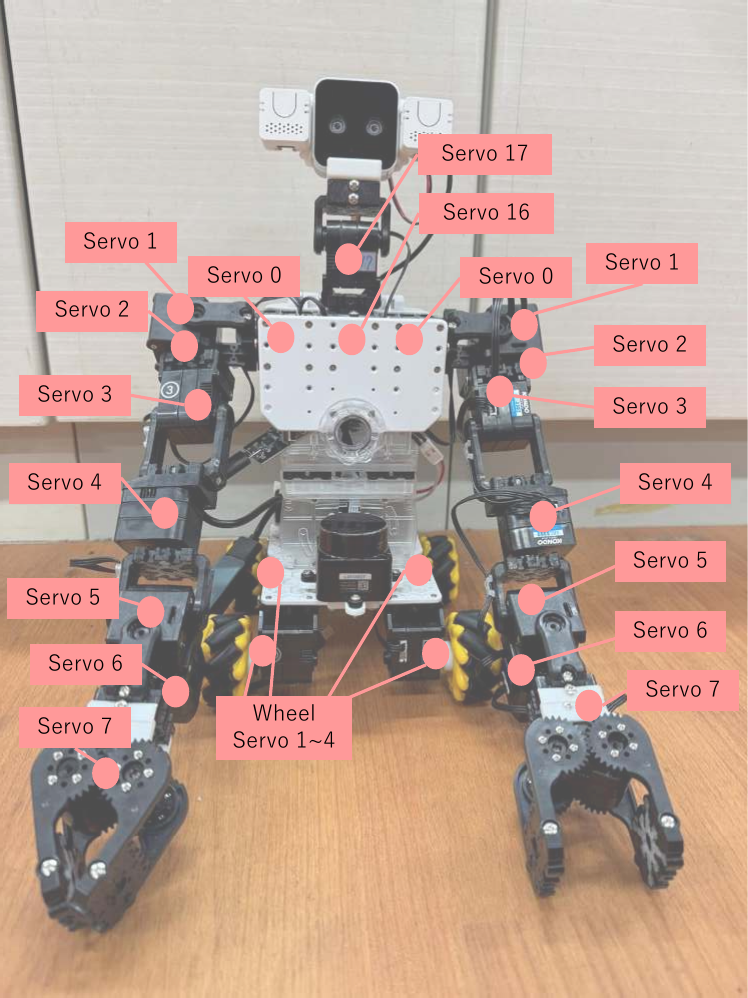
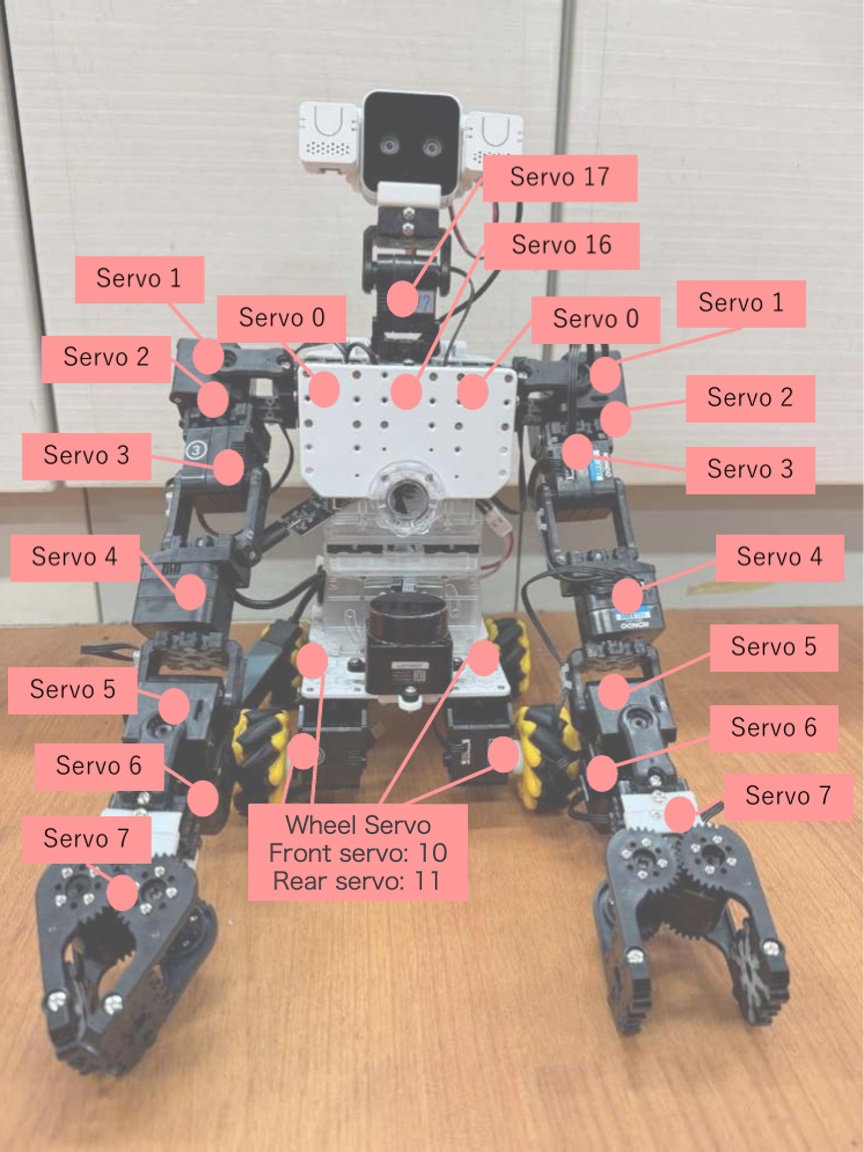
[docs] Fixed h1, h2, h3, h4

diff --git a/docs/robot-programming-2-2025.md b/docs/robot-programming-2-2025.md
@@ -21,10 +21,7 @@
 それらのロボット毎に異なるハードウェアに依存する部分をロボットインターフェースよりも下位にまとめることでロボット毎の違いを吸収している．
 これにより同一の上位プログラムから異なるロボットを行動を制御できるようになっている．
 
-さらに付録には順・逆運動学を応用することで
-`Gazebo`シミュレーション上のヒューマノイドロボット`JAXON`に対して
-人間とヒューマノイドロボットをリアルタイムに同期させるアバターのサンプルも用意してある．
-それらのサンプルでは演習用PCの搭載カメラを利用した簡易的なモーションキャプチャの構成を経て`ROS`や2D画像処理技術，アバター技術の基礎に触れることができるので，余裕のある人は必須課題が終わった後や演習後に試してみて欲しい．
+さらに付録には順・逆運動学を応用することで`Gazebo`シミュレーション上のヒューマノイドロボット`JAXON`を動かせるものもあるので余裕のある人は必須課題が終わった後や演習後に試してみて欲しい．
 
 本日の目標は以下である．
 
@@ -67,22 +64,22 @@
 発展課題に関しては必須ではないが，すべてをこなすとかなりのロボットレベルが上がるため，これからロボットをやっていきたいというロボット経験者も未経験者もぜひチャレンジしてほしい．
 ```
 
-## 環境構築とソフトウェア更新
+### 環境構築とソフトウェア更新
 
 演習を開始する前に，必ず[環境構築](environment-setup.md)のページを参照して，最新バージョンのソフトウェアを取得すること．
 
-## ROSコマンドなどのおさらい
+### ROSコマンドなどのおさらい
 
-### ROS 1コマンド
+#### ROS 1コマンド
 
 ```{code-block} console
 $ rostopic list
 # topic一覧がでる
-$ rostopic hz /atom_s3_button_state
+$ rostopic hz /imu
 # 周期がわかる
-$ rostopic type /atom_s3_button_state
+$ rostopic type /imu
 # topicの型が何かわかる
-$ rostopic echo /atom_s3_button_state
+$ rostopic echo /imu
 # topicの内容を表示する
 $ rosnode list
 # rosnode一覧
@@ -92,16 +89,16 @@ $ rqt_graph
 # ノード一覧がグラフとして表示される
 ```
 
-### ROS 2コマンド
+#### ROS 2コマンド
 
 ```{code-block} console
 $ ros2 topic list
 # topic一覧がでる
-$ ros2 topic hz /atom_s3_button_state
+$ ros2 topic hz /imu
 # 周期がわかる
-$ ros2 topic info /atom_s3_button_state
+$ ros2 topic info /imu
 # topicの型とpublisher/subscriber数が分かる
-$ ros2 topic echo /atom_s3_button_state
+$ ros2 topic echo /imu
 # topicの内容を表示する
 $ ros2 node list
 # rosnode一覧
@@ -113,7 +110,7 @@ $ rqt_graph
 
 詳細なコマンドの使い方については[ROS 1コマンド](tips/ros1-commands.md)と[ROS 2コマンド](tips/ros2-commands.md)のTipsページを参照すること．
 
-# `EusLisp`ロボットインターフェース`*ri*`からのセンサ値取得・台車駆動（シミュレーションにも対応）
+## `EusLisp`ロボットインターフェース`*ri*`からのセンサ値取得・台車駆動（シミュレーションにも対応）
 
 `EusLisp`のロボットインターフェースで実際のロボットのセンサ値取得や台車駆動が行えることを確認する．
 
@@ -280,11 +277,11 @@ $ roscd jedy_bringup/exercise/
 ボタンを押されると音をならし前進しもう一回ボタンを押されるとストップする．
 ```
 
-# 双腕移動台車ロボットのハードウェアとセットアップ
+## 双腕移動台車ロボットのハードウェアとセットアップ
 
 本章では双腕移動台車ロボットの全身動作を行っていく．
 
-## ハードウェア構成
+### ハードウェア構成
 
 双腕移動台車ロボットの片腕は8自由度あり
 7自由度がアーム，1自由度がグリッパハンドである．
@@ -305,9 +302,9 @@ Jedyのサーボ順番割付
 `Radxa`の充電基板にとりついている`ZH3`線のコネクタは`/dev/ttyAML1`というデバイスとして認識されている．
 動作電圧は6-12Vであり，2セルのリポバッテリーから8Vを作り出すことで駆動している．
 
-## セットアップ
+### セットアップ
 
-### 接続と電源投入
+#### 接続と電源投入
 
 背面のバックパック部分の白い制御基板(`KondoH7`基板)から出ている黒い3線のケーブルが`Radxa zero`の上面にある充電管理基板の3線とつながっていることを確認しよう(，を参照).
 背面の物理ボタンをONにすると`KondoH7`基板のLEDが青く点滅し，ブザー音が鳴ることを確認しよう．
@@ -320,7 +317,7 @@ Jedyの背面パネル
 USB充電端子，サーボ基板へ8Vを出力する黄色いコネクタの`XT30`端子，`UART`通信のための黒い`ZH3`線ケーブル，バッテリー入力をする黄色い`XT30`端子がある．また`Atom S3`にはロボットのIPアドレスやバッテリー残量が表示されている．
 ```
 
-### IDの確認
+#### IDの確認
 
 `Jedy`の電源を入れ，ロボットPCに`ssh`でログインして，
 以下のコマンドを実行し22個のサーボモータすべてが
@@ -392,10 +389,10 @@ Servo ID 13 (larm_joint6) not found
 Servo ID 15 (larm_gripper_joint) not found
 ```
 
-実行してこのように“not found”と出ているサーボはケーブルが抜けていないかどうかを確認すべきである．
+実行してこのように"not found"と出ているサーボはケーブルが抜けていないかどうかを確認すべきである．
 <span style="color:red">**ロボットにおいて電源周りやケーブルの接触不良は物理的に動くものであるため起こりうる．大事なことは問題が起きたときにどのように対処できるかというデバッグ能力であり，今のうちから技術を身に着けていってほしい．**</span>
 
-# 演習への取り組み方と移動台車ロボットの共有方法
+## 演習への取り組み方と移動台車ロボットの共有方法
 
 ロボットPCをROSのMasterとして班員のPCを複数台使うことでそれぞれ個別に指令値を送ったりセンサ値を表示したりしながらロボットを動かすことができる．
 しかしロボットの動作自体は一人が送っている間は他の人が送ると動作が上書きされてしまうため，みんなで話ながらロボットを動かしていってほしい．
@@ -409,11 +406,11 @@ Servo ID 15 (larm_gripper_joint) not found
 
 複数台のPC接続設定は{doc}`robot-programming-1-2025`に従う．
 
-# アームロボットのソフトウェア（シミュレーションにも対応）
+## アームロボットのソフトウェア（シミュレーションにも対応）
 
 本小節ではアームロボットを動かすためのソフトウェアについて説明する．
 
-## ロボットアームの起動
+### ロボットアームの起動
 
 **本章のコマンドはアームを動かすのでアームが何かにぶつからないように周囲に注意しながら演習を行うこと．**
 
@@ -432,7 +429,7 @@ $ ros2 launch jedy_bringup jedy_gazebo.launch.py
 
 **実機を動かす場合はのセットアップが必要になる．**
 
-## PythonプログラマのためのEusLisp入門
+### PythonプログラマのためのEusLisp入門
 
 本演習では，ロボット制御にEusLispという言語を使用する．多くの学生にとってPythonの方が馴染みがあると思われるため，ここではPythonとの対比を通じてEusLispの書き方を理解できるようにする．
 
@@ -444,7 +441,7 @@ $ ros2 launch jedy_bringup jedy_gazebo.launch.py
 PythonとEusLispの構文対比
 :::
 
-### 基本的な対応関係
+#### 基本的な対応関係
 
 | 概念 | Python | EusLisp | 説明 |
 |------|--------|---------|------|
@@ -455,7 +452,7 @@ PythonとEusLispの構文対比
 | **リスト/配列** | `[0, 0, 0, 0, 0, 0]` | `#f(0 0 0 0 0 0)` | `#f`は浮動小数点数ベクトル |
 | **入れ子の関数** | `jedy.inverse_kinematics(make_coords(pos=[370, 0, 150]))` | `(send *jedy* :inverse-kinematics (make-coords :pos #f(370 0 150)))` | 内側から外側へ評価される |
 
-### 重要なポイント
+#### 重要なポイント
 
 1. **前置記法（Prefix Notation）**
    - Python: `a + b` （演算子が中央）
@@ -476,7 +473,7 @@ PythonとEusLispの構文対比
 
 詳細な説明については，[PythonプログラマのためのEusLisp](tips/python-to-euslisp.md)を参照のこと．
 
-## `EusLisp`のロボットインターフェース`*ri*`からのアームロボットの制御
+### `EusLisp`のロボットインターフェース`*ri*`からのアームロボットの制御
 
 以下のコマンドにより
 `EusLisp`のロボットインターフェースからアームロボットを動かすことができる．
@@ -513,7 +510,7 @@ irteusgl$ (send *ri* :angle-vector (send *jedy* :angle-vector) 4000)
 1.のロボットモデルの姿勢を決定する部分は，
 のように関節角度を直接指定したり[EusLispの逆運動学メソッド](tips/euslisp-ik.md)のように逆運動学を用いてもよい．
 
-## `KRS`サーボのON/OFF
+#### `KRS`サーボのON/OFF
 
 以下のコマンドでサーボのON/OFFが切り替えられる．
 
@@ -570,7 +567,7 @@ irteusgl$ send-all (send *jedy* :joint-list) :name
 興味のある人は， <https://kondo-robot.com/product/03146>
 などの製品情報ページを参照してみてほしい．
 
-## 関節角度の直接指令による動作生成
+#### 関節角度の直接指令による動作生成
 
 <div class="screen">
 
@@ -605,37 +602,33 @@ irteusgl$ (send (send *jedy* :head_joint1) :joint-angle -90)
 
 繰り返し処理を追加すると以下のようにエンターキーを押すまでロボットがうなずき続ける．
 
-<div class="screen">
-
-``` lisp
+```{code-block} lisp
 ;; 頭部のみ個別にservo-on
-      (send *ri* :servo-on :names (list "head_joint0" "head_joint1"))
+(send *ri* :servo-on :names (list "head_joint0" "head_joint1"))
 
-      ;; 頭部の関節名を指定して角度を変える
-      (send *jedy* :head_joint0 :joint-angle 20)
-      (send *jedy* :head_joint1 :joint-angle 50)
+;; 頭部の関節名を指定して角度を変える
+(send *jedy* :head_joint0 :joint-angle 20)
+(send *jedy* :head_joint1 :joint-angle 50)
 
-      (send *irtviewer* :draw-objects)
+(send *irtviewer* :draw-objects)
 
-      ;; 関節指令を実機に反映させる (3000msかけておくる)
-      (send *ri* :angle-vector (send *jedy* :angle-vector) 3000)
+;; 関節指令を実機に反映させる (3000msかけておくる)
+(send *ri* :angle-vector (send *jedy* :angle-vector) 3000)
 
-      ;; キーが押されるまでうなずき続ける
-      (do-until-key
-        (send *jedy* :head_joint0 :joint-angle 0)
-        (send *jedy* :head_joint1 :joint-angle 90)
-        (send *ri* :angle-vector (send *jedy* :angle-vector) 1000)
-        (send *ri* :wait-interpolation)  ;; 補間がおわるのを待つ
-        (send *jedy* :head_joint0 :joint-angle 0)
-        (send *jedy* :head_joint1 :joint-angle 0)
-        (send *ri* :angle-vector (send *jedy* :angle-vector) 1000)
-        (send *ri* :wait-interpolation)  ;; 補間がおわるのを待つ
-        )
+;; キーが押されるまでうなずき続ける
+(do-until-key
+  (send *jedy* :head_joint0 :joint-angle 0)
+  (send *jedy* :head_joint1 :joint-angle 90)
+  (send *ri* :angle-vector (send *jedy* :angle-vector) 1000)
+  (send *ri* :wait-interpolation)  ;; 補間がおわるのを待つ
+  (send *jedy* :head_joint0 :joint-angle 0)
+  (send *jedy* :head_joint1 :joint-angle 0)
+  (send *ri* :angle-vector (send *jedy* :angle-vector) 1000)
+  (send *ri* :wait-interpolation)  ;; 補間がおわるのを待つ
+)
 ```
 
-</div>
-
-## 逆運動学による動作生成
+#### 逆運動学による動作生成
 
 手先を目標物に伸ばすというように，手先作業空間での目標に基づいてロボットの運動を生成するには，逆運動学(IK)を用いる．
 逆運動学は端的には，「目標位置まで手先を動かすための関節角度はいくらか？」を求める演算である．
@@ -687,7 +680,7 @@ irteusgl$ (send *jedy* :rarm :inverse-kinematics
 
 逆運動学メソッドの詳細な使い方は，を参照のこと．
 
-### <span style="color:green">チェックポイント: アームロボットの制御</span>
+#### <span style="color:green">チェックポイント: アームロボットの制御</span>
 
 ```{exercise} アームロボットの制御
 :label: ex_arm_control
@@ -702,9 +695,9 @@ irteusgl$ (send *jedy* :rarm :inverse-kinematics
 
 なお，実際に`Jedy`の定義されてるファイルは，[jedy/jedyeus/euslisp/jedy.l](https://github.com/jsk-enshu/robot-programming/tree/master/jedy/jedyeus/euslisp/jedy.l)にある．
 
-# 本日の発展課題
+## 本日の発展課題
 
-## 課題1(発展)
+### 課題1(発展)
 
 {doc}`robot-programming-1-2025`でカメラ画像を使って認識を行った．物体の姿勢を推定し，その推定結果からロボット実機の姿勢を決定することは重要である．
 ここでは，カメラのRGB画像からマーカーボックスの位置を推定し，ロボットの逆運動学計算を行いピックアップする方法を紹介するので，希望者はTAか先生から`AprilTag`Boxを貸りて，ぜひ挑戦してみてほしい．
@@ -779,23 +772,23 @@ $ roseus sample-pickup.l
 このような工夫で成功率が大きく変わることを体験してみてほしい．
 
 
-## 課題2.1 (発展)
+### 課題2.1 (発展)
 
 Jedyの`follow joint trajectory`コントローラーを別々に動かすプログラムを書いて`head_controller`のみを動かすプログラム，`rarm_controller`のみを動かすプログラムで分けて実行することでコントローラーごとに独立して操作できることを確認してみよう．
 
-## 課題2.2 (発展)
+### 課題2.2 (発展)
 
 他の班のJedyと協力して片方を動かすと片方のJedyが動くプログラムを作成してみよ．
 
 
-## ヒューマノイドロボットJAXONのシミュレーション（発展課題）
+### ヒューマノイドロボットJAXONのシミュレーション（発展課題）
 
 本章では，Gazeboシミュレーション上でヒューマノイドロボットJAXONを動かす方法を説明する．
 本演習ではROS 2でGazeboシミュレーションを起動し，EusLispから制御する際にはros1_bridgeを用いてROS 1とROS 2を橋渡しする．
 JAXONのGazeboシミュレーションはROS 2パッケージ`cart_humanoid_ros2`で提供されている．
 [JaxonのシミュレーションでリアルタイムIKを動かす](tips/realtime-ik.md)を参照のこと．
 
-## 課題3(発展)
+### 課題3(発展)
 
 `EusLisp`の`robot`インターフェース`*ri*`は双腕移動台車ロボットだけでなくヒューマノイド`JAXON`にも用意されており
 移動台車アームロボットとヒューマノイド`JAXON`は`*ri*`に共通のメソッドを送信することで制御することができる．
@@ -803,11 +796,11 @@ JAXONのGazeboシミュレーションはROS 2パッケージ`cart_humanoid_ros2
 従って本日の演習の`launch`ファイルと`euslisp`のファイルを少し書き換えるだけで移動台車アームロボットと`JAXON`を同じようなプログラムでIKによる制御を行うことができるということである．
 以下の手順でと同様に手先位置で実機またはシミュレーション上のアームロボットの手先をリアルタイムに動かしてみよ．
 
-## 課題4(発展)
+### 課題4(発展)
 
 以下の手順でと同様にカメラで認識した手先位置で実機またはシミュレーション上のアームロボットの手先をリアルタイムに動かしてみよ．
 
-## 課題5(発展)
+### 課題5(発展)
 
 機械情報冬学期演習「デジタルファブリケーション」で自分が設計した部品の立体形状を`STL`ファイルで保存していると思うがその`STL`をGazeboシミュレーション内に出現させよ．
 
@@ -841,16 +834,16 @@ model.config  model.sdf  my_mesh.stl
 
 ※STLの用意や読み込みがどうしても出来ない人はhumanoid_workspace.world内のmy primitive modelに関する部分をコメントインしてプリミティブな幾何形状の組み合わせによる自作モデルを作成しよう
 
-## 課題6(発展)
+### 課題6(発展)
 
 EusLispのrobotインターフェースに実装されている`inverse-kinematics`機能([参考](tips/euslisp-ik.md))を用いて
 任意の物体にアームで触れるプログラムを作成せよ．（※可能であればグリッパを駆使して物体をピックアップできるとなお良い）
 
-## 課題7(発展)
+### 課題7(発展)
 
 二日目の演習でJedyからJaxonを動かす様子をみたと思う．実機のJedyを動かしシミュレーターのJaxonを動かせるようにしてみよ．
 
-## 課題8(発展)
+### 課題8(発展)
 
 これまでの授業や演習で学んだロボットプログラミング技法を組み合わせ，
 自由な発想でロボットのデモプログラムを作成せよ．
